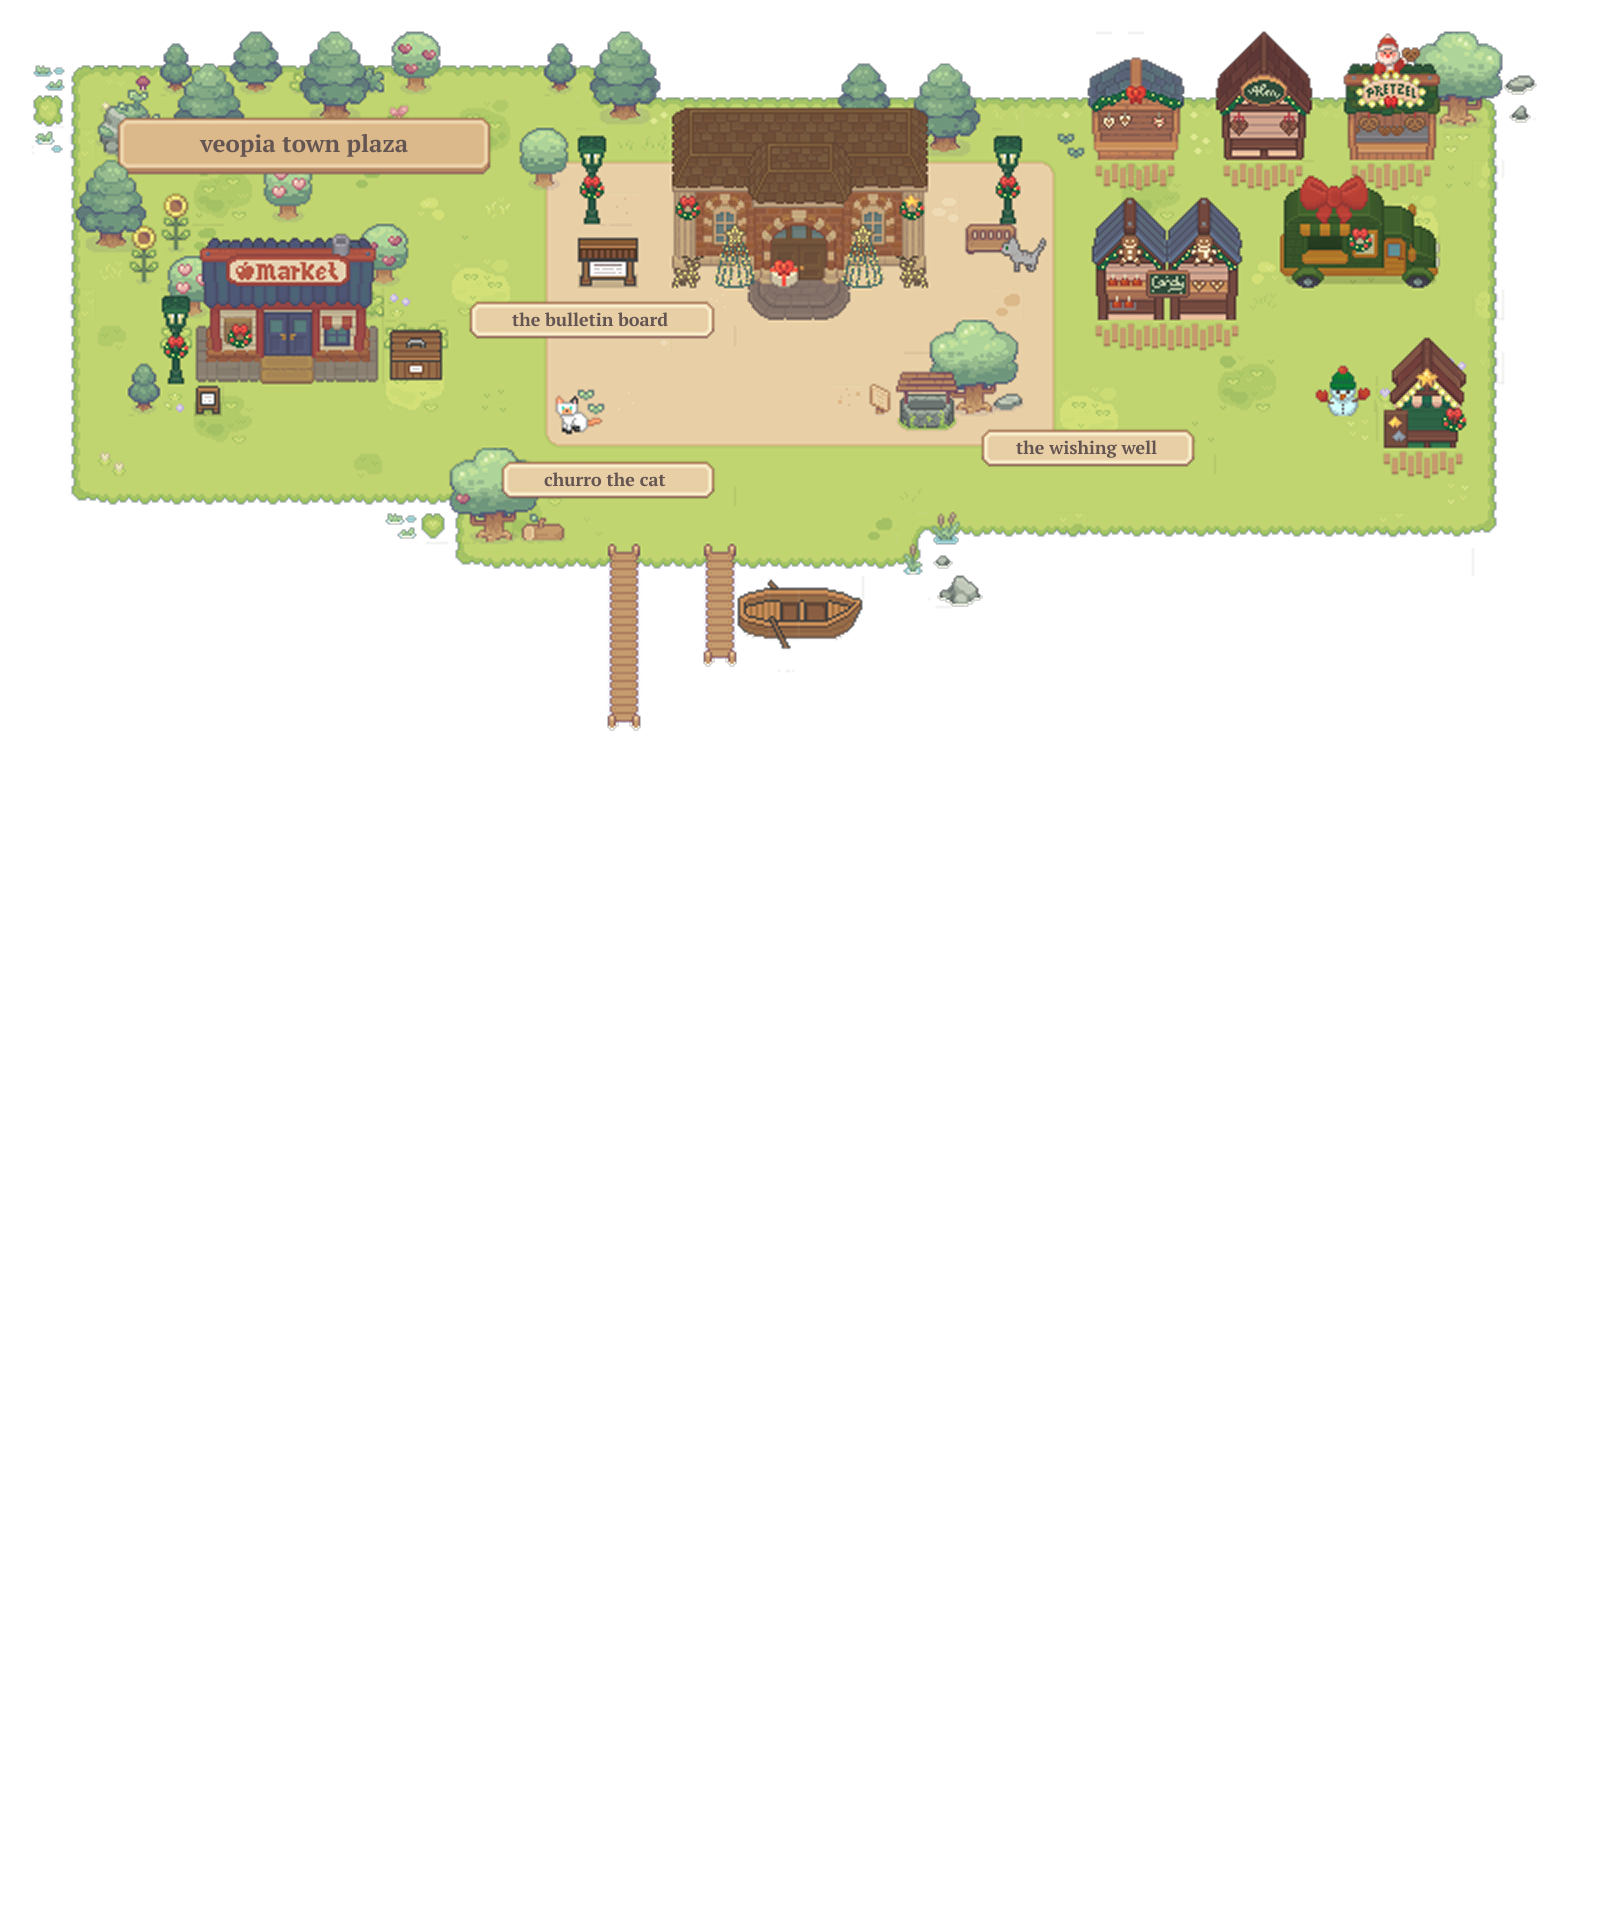
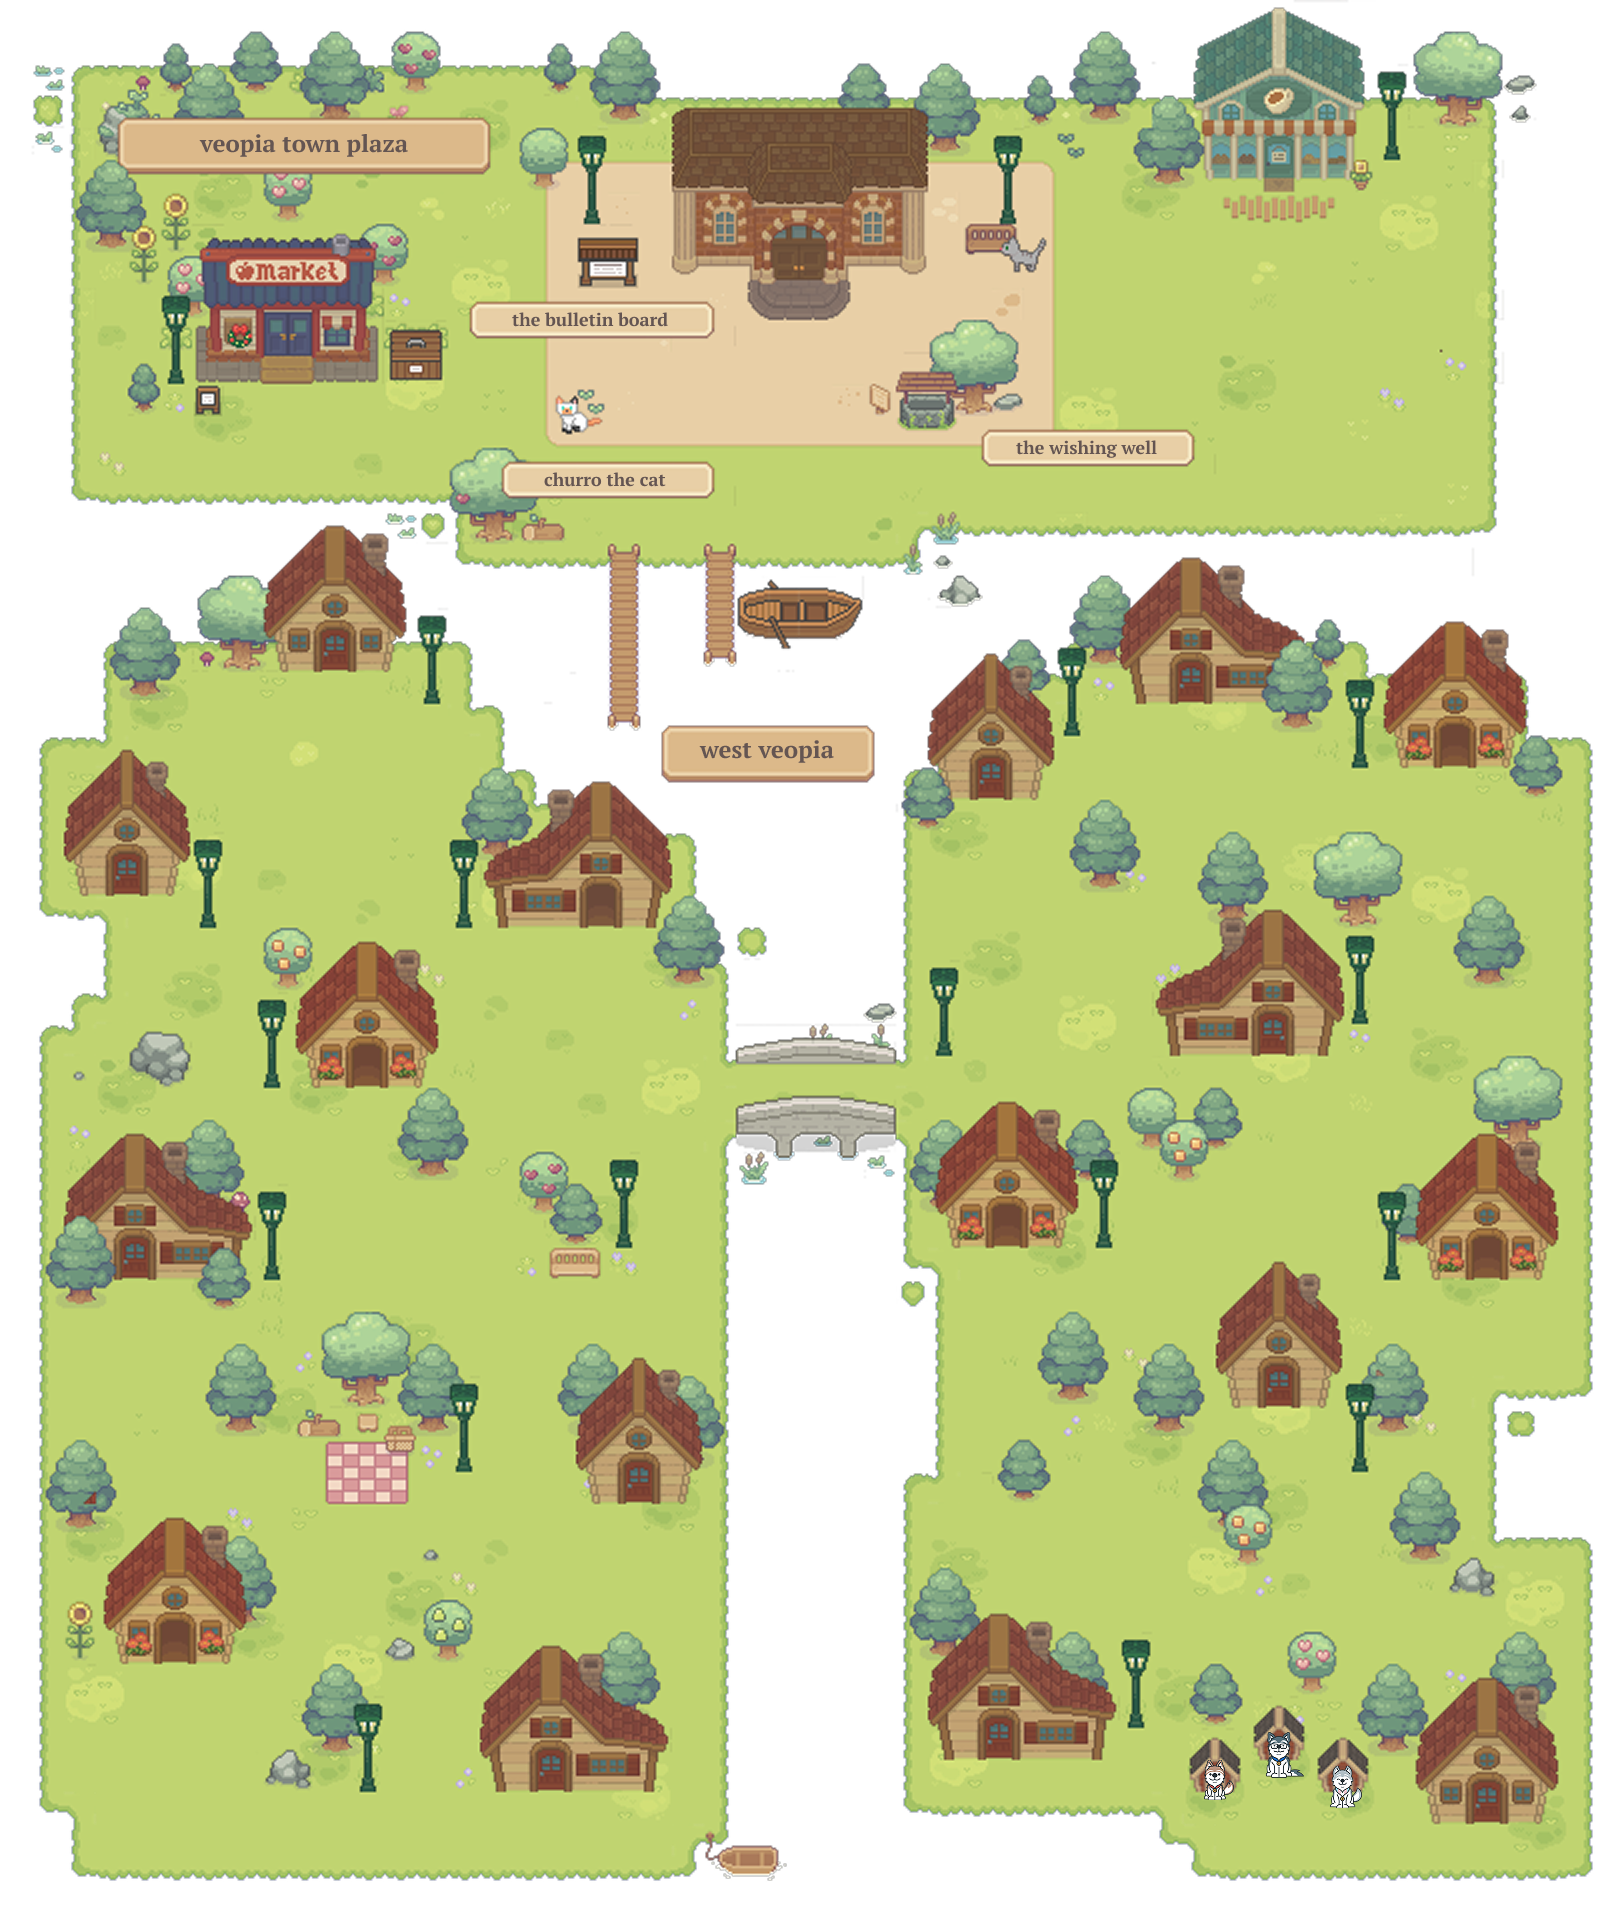
add west veopia map + residents

diff --git a/src/lib/config/clickableAreas.ts b/src/lib/config/clickableAreas.ts
@@ -19,7 +19,7 @@ export const clickableAreas: ClickableArea[] = [
 		height: 12,
 		url: 'https://mayari.io',
 		name: 'maya avendaño',
-		bio: 'frontend x design engineer | maker of veopia and other things | lover of cats, coding, figure skating, kickboxing, olympic weightlifting',
+		bio: 'dx engineer @ vercel ⏶ | frontend x design engineering | maker of veopia and other things | fan of cats + community | figure skater, kickboxer, oly weightlifter',
 		location: {
 			plotNumber: 1,
 			town: 'veopian-isles'
@@ -335,6 +335,264 @@ export const clickableAreas: ClickableArea[] = [
 		location: {
 			plotNumber: 11,
 			town: 'forest-of-veopia'
+		}
+	},
+
+
+	// ═══════════════════════════════════════════════════════════════
+	// VEOPIA TOWN PLAZA - Plots
+	// ═══════════════════════════════════════════════════════════════
+	{
+		type: 'plot',
+		x: 1,
+		y: 47,
+		width: 9,
+		height: 5.5,
+		url: 'https://www.vixclotet.com/',
+		name: 'Vix <3',
+		bio: 'tech founder and software engineer 🩵 | v0 ambassador 🖤 | building things on the internet and doing cool stuff for people 🌟 | always traveling ✈',
+		location: {
+			plotNumber: 14,
+			town: 'veopia-town-plaza'
+		}
+	},
+	{
+		type: 'plot',
+		x: 9,
+		y: 29,
+		width: 6,
+		height: 5.5,
+		url: 'https://hugorcd.com',
+		name: 'Hugo',
+		bio: 'Software Engineer at Vercel ▲',
+		location: {
+			plotNumber: 15,
+			town: 'veopia-town-plaza'
+		}
+	},
+	{
+		type: 'plot',
+		x: 6,
+		y: 16,
+		width: 9,
+		height: 5.5,
+		url: 'https://raz.lol',
+		name: 'Razberry',
+		bio: 'founder & cozy coder ~ building for personal, malleable software',
+		location: {
+			plotNumber: 16,
+			town: 'veopia-town-plaza'
+		}
+	},
+	{
+		type: 'plot',
+		x: 1.5,
+		y: 23,
+		width: 5,
+		height: 5.5,
+		url: 'https://luke.boo',
+		name: 'luke',
+		bio: 'funware',
+		location: {
+			plotNumber: 17,
+			town: 'veopia-town-plaza'
+		}
+	},
+	{
+		type: 'plot',
+		x: 15,
+		y: 24,
+		width: 7,
+		height: 5.5,
+		url: 'https://timganiev.com/',
+		name: 'tim',
+		bio: "post-training & rl 🥺👉👈",
+		location: {
+			plotNumber: 18,
+			town: 'veopia-town-plaza'
+		}
+	},
+	{
+		type: 'plot',
+		x: 1,
+		y: 35,
+		width: 8,
+		height: 5.2,
+		url: 'https://williamhzo.me',
+		name: 'william',
+		bio: 'builder, playing positive sum games with code, design & humans',
+		location: {
+			plotNumber: 19,
+			town: 'veopia-town-plaza'
+		}
+	},
+	{
+		type: 'plot',
+		x: 13,
+		y: 51,
+		width: 10,
+		height: 5.5,
+		url: 'https://chintansudani.com',
+		name: 'Chintan',
+		bio: 'I help founders and business owners to launch ideas through fast, scalable, and best editorial websites using JAMstack.',
+		location: {
+			plotNumber: 20,
+			town: 'veopia-town-plaza'
+		}
+	},
+	{
+		type: 'plot',
+		x: 34,
+		y: 17,
+		width: 8,
+		height: 5.5,
+		url: 'https://nicos.website',
+		name: 'Nico Escudero',
+		bio: 'Product Manager @ inploi',
+		location: {
+			plotNumber: 21,
+			town: 'veopia-town-plaza'
+		}
+	},
+	{
+		type: 'plot',
+		x: 16,
+		y: 42,
+		width: 8.2,
+		height: 5.2,
+		url: 'https://r74n.com/',
+		name: 'R74n',
+		bio: 'Indie web developer',
+		location: {
+			plotNumber: 22,
+			town: 'veopia-town-plaza'
+		}
+	},
+	{
+		type: 'plot',
+		x: 43,
+		y: 35,
+		width: 7,
+		height: 5.5,
+		url: 'https://adjohu.com',
+		name: 'Adam Hutchinson',
+		bio: 'I build things',
+		location: {
+			plotNumber: 23,
+			town: 'veopia-town-plaza'
+		}
+	},
+	{
+		type: 'plot',
+		x: 43,
+		y: 19,
+		width: 7,
+		height: 5.5,
+		url: 'https://pim.dev',
+		name: 'Pim de Wit',
+		bio: 'creative technologist, co-founder @ Dossia',
+		location: {
+			plotNumber: 24,
+			town: 'veopia-town-plaza'
+		}
+	},
+	{
+		type: 'plot',
+		x: 28,
+		y: 20,
+		width: 6,
+		height: 5.5,
+		url: 'https://guillemcotcha.com',
+		name: 'guigz',
+		bio: 'software designer',
+		location: {
+			plotNumber: 25,
+			town: 'veopia-town-plaza'
+		}
+	},
+	{
+		type: 'plot',
+		x: 37,
+		y: 39,
+		width: 6,
+		height: 5.5,
+		url: 'https://thereallo.dev',
+		name: 'Thereallo',
+		bio: 'frontend nerd',
+		location: {
+			plotNumber: 26,
+			town: 'veopia-town-plaza'
+		}
+	},
+	{
+		type: 'plot',
+		x: 43,
+		y: 52,
+		width: 7,
+		height: 5.5,
+		url: 'https://samwho.dev',
+		name: 'Sam Rose',
+		bio: 'That guy who makes visual essays about programming.',
+		location: {
+			plotNumber: 27,
+			town: 'veopia-town-plaza'
+		}
+	},
+	{
+		type: 'plot',
+		x: 36,
+		y: 53,
+		width: 7,
+		height: 4,
+		url: 'https://samwho.dev/dogs',
+		name: 'Haskie, Sage & Doe',
+		bio: 'woof!',
+		location: {
+			plotNumber: 29,
+			town: 'veopia-town-plaza'
+		}
+	},
+	{
+		type: 'plot',
+		x: 28,
+		y: 34,
+		width: 7,
+		height: 5.5,
+		url: 'https://glenn.me',
+		name: 'Glenn Hitchcock',
+		bio: 'Designer and Director, focussed on brand, product & process at poolside.',
+		location: {
+			plotNumber: 28,
+			town: 'veopia-town-plaza'
+		}
+	},
+	{
+
+		type: 'plot',
+		x: 35,
+		y: 28,
+		width: 8,
+		height: 5.2,
+		url: 'https://iniabiodun.com',
+		name: 'Ìní',
+		bio: 'Lawyer, maker and designer chasing wonder',
+		location: {
+			plotNumber: 30,
+			town: 'veopia-town-plaza'
+		}
+	},
+	{
+		type: 'plot',
+		x: 28,
+		y: 50,
+		width: 7,
+		height: 5.5,
+		url: 'https://bhrigu.dev',
+		name: 'Bhrigu',
+		bio: 'Software Engineer at Vercel ▲',
+		location: {
+			plotNumber: 31,
+			town: 'veopia-town-plaza'
 		}
 	},
 
